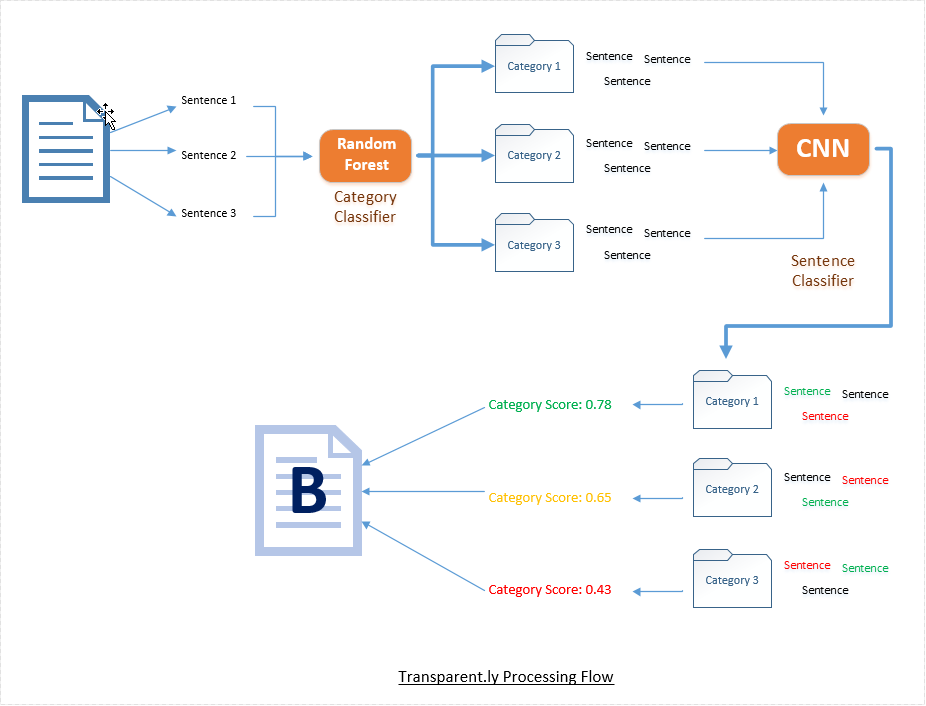
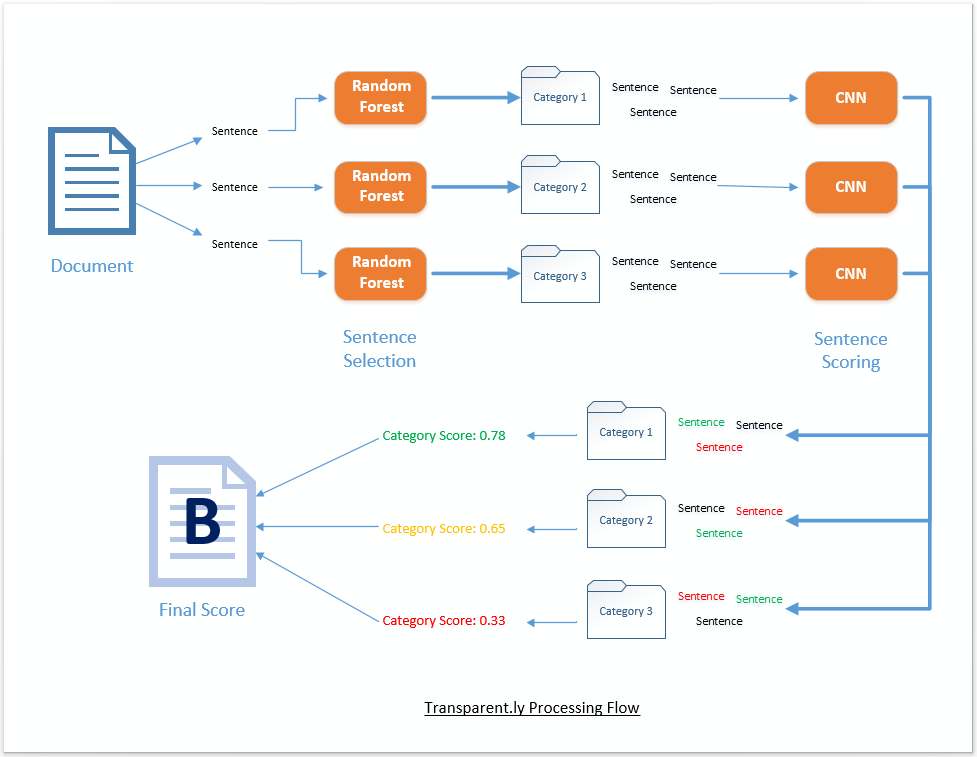
updated flow chart and solution.html

diff --git a/Web/js/theme.js b/Web/js/theme.js
@@ -1,106 +1,104 @@
 /*
-Author       : 
-Template Name: 
-Version      : 1.0
-*/
+ Author       :
+ Template Name:
+ Version      : 1.0
+ */
 
-jQuery(function($) {
-	"use strict";
+jQuery(function ($) {
+    "use strict";
 
-		/*START MENU JS*/
-		$(window).on('scroll', function() {
-			if ($(".navbar").offset().top > 50) {
-				$(".navbar-fixed-top").addClass("top-nav-collapse");
-			} else {
-				$(".navbar-fixed-top").removeClass("top-nav-collapse");
-			}
-		});
-		
-		$('a.page-scroll').on('click', function(event) {
-			var $anchor = $(this);
-			$('html, body').stop().animate({
-				scrollTop: $($anchor.attr('href')).offset().top - 10 
-			}, 1500, 'easeInOutExpo');
-			event.preventDefault();
-		});
+    /*START MENU JS*/
+    $(window).on('scroll', function () {
+        if ($(".navbar").offset().top > 50) {
+            $(".navbar-fixed-top").addClass("top-nav-collapse");
+        } else {
+            $(".navbar-fixed-top").removeClass("top-nav-collapse");
+        }
+    });
 
-		/* Closes the Responsive Menu on Menu Item Click*/
-		$('.navbar-collapse ul li a').on('click', function() {
-			$('.navbar-toggle:visible').click();
-		});
-		/*END MENU JS*/ 
+    $('a.page-scroll').on('click', function (event) {
+        var $anchor = $(this);
+        $('html, body').stop().animate({
+            scrollTop: $($anchor.attr('href')).offset().top - 10
+        }, 1500, 'easeInOutExpo');
+        event.preventDefault();
+    });
 
-	  
-	/*START WOW ANIMATIONS JS*/ 
-		new WOW().init();
-	/*END WOW ANIMATIONS JS*/ 
-	
-	
-	function init_navbar() {
-	var a = $("#masthead")
-		, b = $(a).outerHeight();
-	$(".site-header-affix-wrapper").css("height", b);
-	var c;
-	c = $(".topbar").outerHeight(), $(window).scroll(function () {
-		$(window).scrollTop() > c ? $(a).addClass("sticky-bar").addClass("header-dark") : $(a).removeClass("sticky-bar").removeClass("header-dark")
-	}), $(window).scrollTop() > c && $(a).addClass("sticky-bar").addClass("header-dark"), $(".nav-menu li a, .site-title a").on("click", function (a) {
-		var b = $(this);
-		$("html, body").stop().animate({
-			scrollTop: $(b.attr("href")).offset().top
-		}, 1500, "easeInOutExpo"), a.preventDefault()
-	}), $(".nav-menu li").on("click", function () {
-		$(".nav-menu li.current-menu-item").removeClass("current-menu-item"), $(this).addClass("current-menu-item")
-	})
-}
+    /* Closes the Responsive Menu on Menu Item Click*/
+    $('.navbar-collapse ul li a').on('click', function () {
+        $('.navbar-toggle:visible').click();
+    });
+    /*END MENU JS*/
 
-function init_lightbox() {
-	$(".image-lightbox").magnificPopup({
-		type: "image"
-		, gallery: {
-			enabled: !0
-		}
-		, mainClass: "mfp-with-zoom mfp-img-mobile"
-		, zoom: {
-			enabled: !0
-			, duration: 100
-			, easing: "ease-in-out"
-			, opener: function (a) {
-				return a.is("img") ? a : a.find("img")
-			}
-		}
-	})
-}
 
-function init_workfilter() {
-	var b = $(".work-grid");
-	b.imagesLoaded(function () {
-		b.isotope({
-			filter: "*"
-			, animationOptions: {
-				duration: 750
-				, easing: "easeOutBounce"
-				, queue: !1
-			}
-		})
-	}), $(".work-filter li").on("click", function () {
-		$(".work-filter li.active").removeClass("active"), $(this).addClass("active");
-		var a = $(this).attr("data-filter");
-		return b.imagesLoaded(function () {
-			b.isotope({
-				filter: a
-				, animationOptions: {
-					duration: 750
-					, easing: "easeOutBounce"
-					, queue: !1
-				}
-			})
-		}), !1
-	})
-}
+    /*START WOW ANIMATIONS JS*/
+    new WOW().init();
+    /*END WOW ANIMATIONS JS*/
 
-jQuery(window).trigger("resize").trigger("scroll"), init_navbar(), init_lightbox(), init_workfilter()
-	
-	
-	
-	
-  });
+
+    function init_navbar() {
+        var a = $("#masthead")
+            , b = $(a).outerHeight();
+        $(".site-header-affix-wrapper").css("height", b);
+        var c;
+        c = $(".topbar").outerHeight(), $(window).scroll(function () {
+            $(window).scrollTop() > c ? $(a).addClass("sticky-bar").addClass("header-dark") : $(a).removeClass("sticky-bar").removeClass("header-dark")
+        }), $(window).scrollTop() > c && $(a).addClass("sticky-bar").addClass("header-dark"), $(".nav-menu li a, .site-title a").on("click", function (a) {
+            var b = $(this);
+            $("html, body").stop().animate({
+                scrollTop: $(b.attr("href")).offset().top
+            }, 1500, "easeInOutExpo"), a.preventDefault()
+        }), $(".nav-menu li").on("click", function () {
+            $(".nav-menu li.current-menu-item").removeClass("current-menu-item"), $(this).addClass("current-menu-item")
+        })
+    }
+
+    function init_lightbox() {
+        $(".image-lightbox").magnificPopup({
+            type: "image"
+            , gallery: {
+                enabled: !0
+            }
+            , mainClass: "mfp-with-zoom mfp-img-mobile"
+            , zoom: {
+                enabled: !0
+                , duration: 100
+                , easing: "ease-in-out"
+                , opener: function (a) {
+                    return a.is("img") ? a : a.find("img")
+                }
+            }
+        })
+    }
+
+    function init_workfilter() {
+        var b = $(".work-grid");
+        b.imagesLoaded(function () {
+            b.isotope({
+                filter: "*"
+                , animationOptions: {
+                    duration: 750
+                    , easing: "easeOutBounce"
+                    , queue: !1
+                }
+            })
+        }), $(".work-filter li").on("click", function () {
+            $(".work-filter li.active").removeClass("active"), $(this).addClass("active");
+            var a = $(this).attr("data-filter");
+            return b.imagesLoaded(function () {
+                b.isotope({
+                    filter: a
+                    , animationOptions: {
+                        duration: 750
+                        , easing: "easeOutBounce"
+                        , queue: !1
+                    }
+                })
+            }), !1
+        })
+    }
+
+    jQuery(window).trigger("resize").trigger("scroll"), init_navbar(), init_lightbox(), init_workfilter()
+
+
+});

diff --git a/Web/solution.html b/Web/solution.html
@@ -52,7 +52,12 @@
         <!-- Collect the nav links, forms, and other content for toggling -->
         <div class="collapse navbar-collapse navbar-right navbar-main-collapse">
             <ul class="nav navbar-nav">
-                <li class="page-scroll"><a href="index.html#common-intro" class="page-scroll">Back</a></li>
+                <li class="page-scroll"><a href="index.html#common-intro" class="page-scroll">Home</a></li>
+                <li><a class="page-scroll" href="index.html#section-profile">About</a></li>
+                <li><a class="page-scroll" href="index.html#section-profile-solution">Solution</a></li>
+                <li><a class="page-scroll" href="index.html#demo">Demo</a></li>
+                <li><a class="page-scroll" href="#section-profile-solution">How it works</a></li>
+                <li><a class="page-scroll" href="index.html#section-team">Team</a></li>
             </ul>
         </div>
         <!-- /.navbar-collapse -->
@@ -328,13 +333,18 @@
                     combined to generate a final letter grade that describe the entire document.
                 </p>
             </div>
+            <div class="col-md-12" style="display:table-cell; vertical-align:middle; text-align:center">
+                <img src="images/processing-flow.png">
+            </div>
+
         </div>
     </div>
     <!--  container end -->
 </section>
 <!--  section services end -->
 
-
+<br>
+<br>
 <!--  Footer start  -->
 <section id="profile-footer">
     <div class="container">

diff --git a/Web/index.html b/Web/index.html
@@ -56,7 +56,7 @@
                 <li><a class="page-scroll" href="#section-profile">About</a></li>
                 <li><a class="page-scroll" href="#section-profile-solution">Solution</a></li>
                 <li><a class="page-scroll" href="#demo">Demo</a></li>
-                <!--<li><a class="page-scroll" href="#section-pricing">pricing</a></li>-->
+                <li><a class="page-scroll" href="solution.html#section-profile-solution">How it works</a></li>
                 <li><a class="page-scroll" href="#section-team">Team</a></li>
             </ul>
         </div>
@@ -140,12 +140,10 @@
 
 
             <div class="row">
-                <div class="col-md-12" style="display:table-cell; vertical-align:middle; text-align:center">
-                    Solution overview. Detail goes <a href="solution.html">here.</a>
+                <div class="col-md-12">
+                    [NEED EDIT] Solution overview. We can put brief solution description covered by Chris here. Detail goes <a href="solution.html">How it works.</a>
                 </div>
-                <div class="col-md-12" style="display:table-cell; vertical-align:middle; text-align:center">
-                   <img src="images/processing-flow.png">
-                </div>
+
 
 
             </div>
